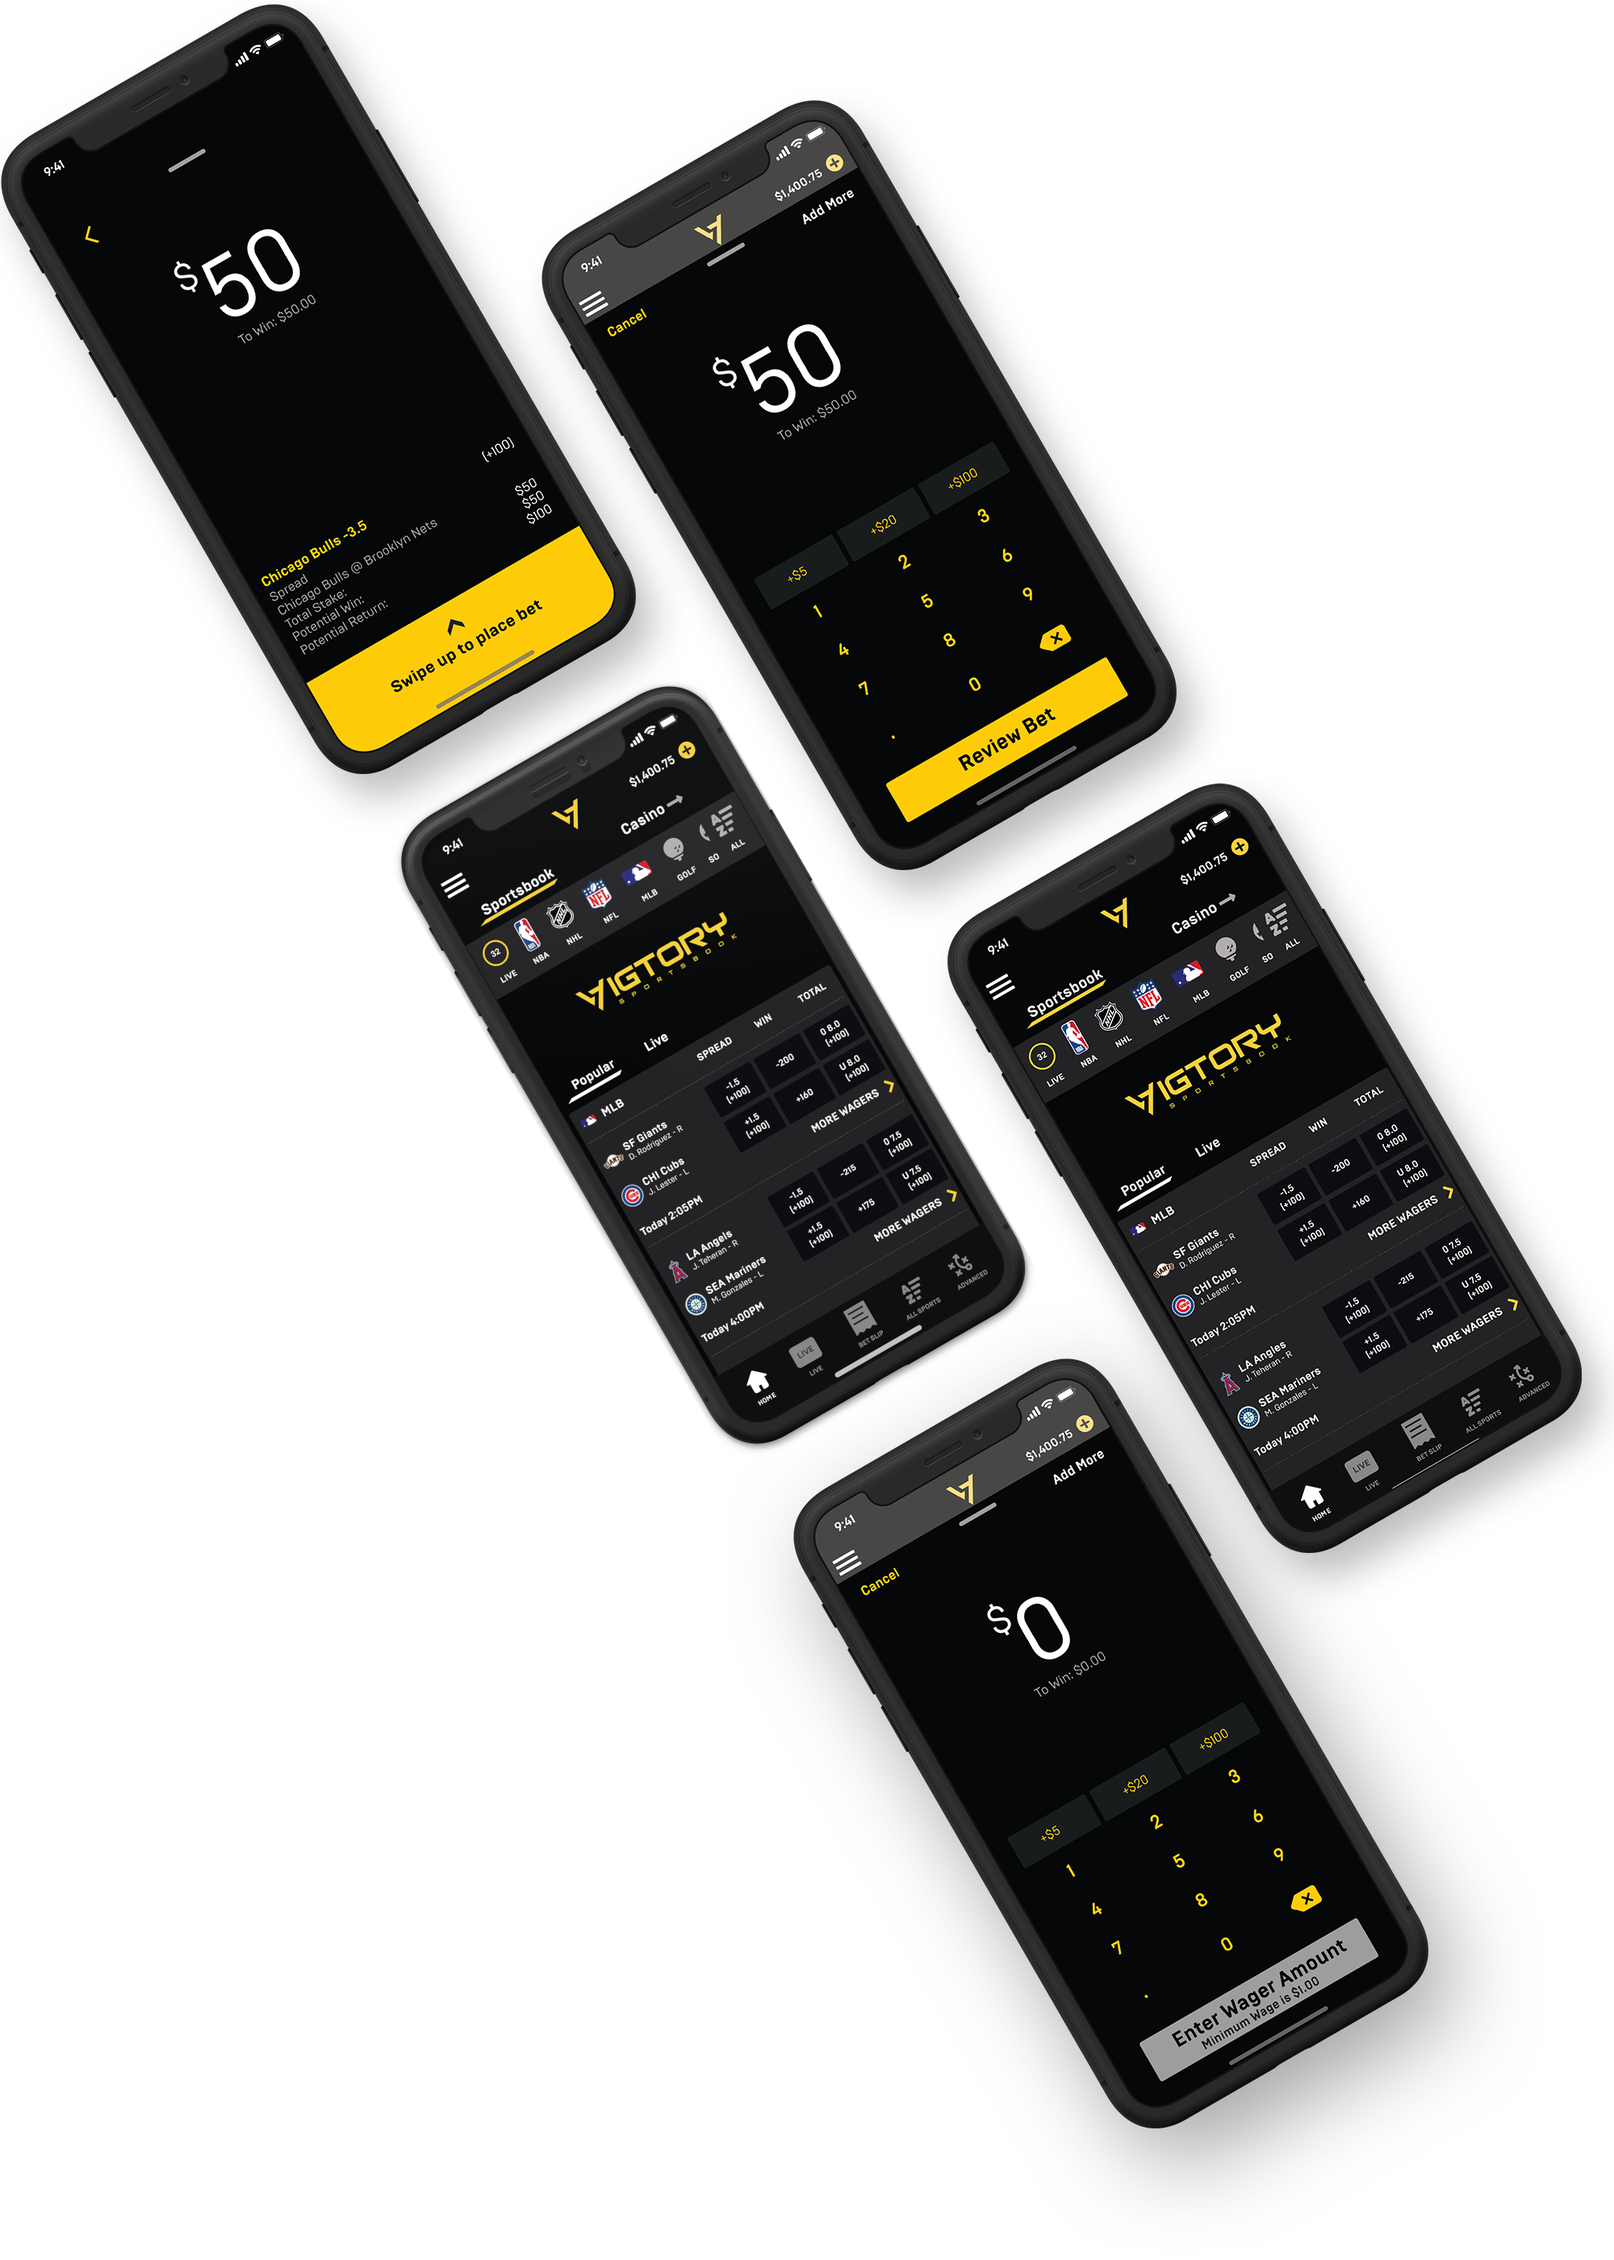
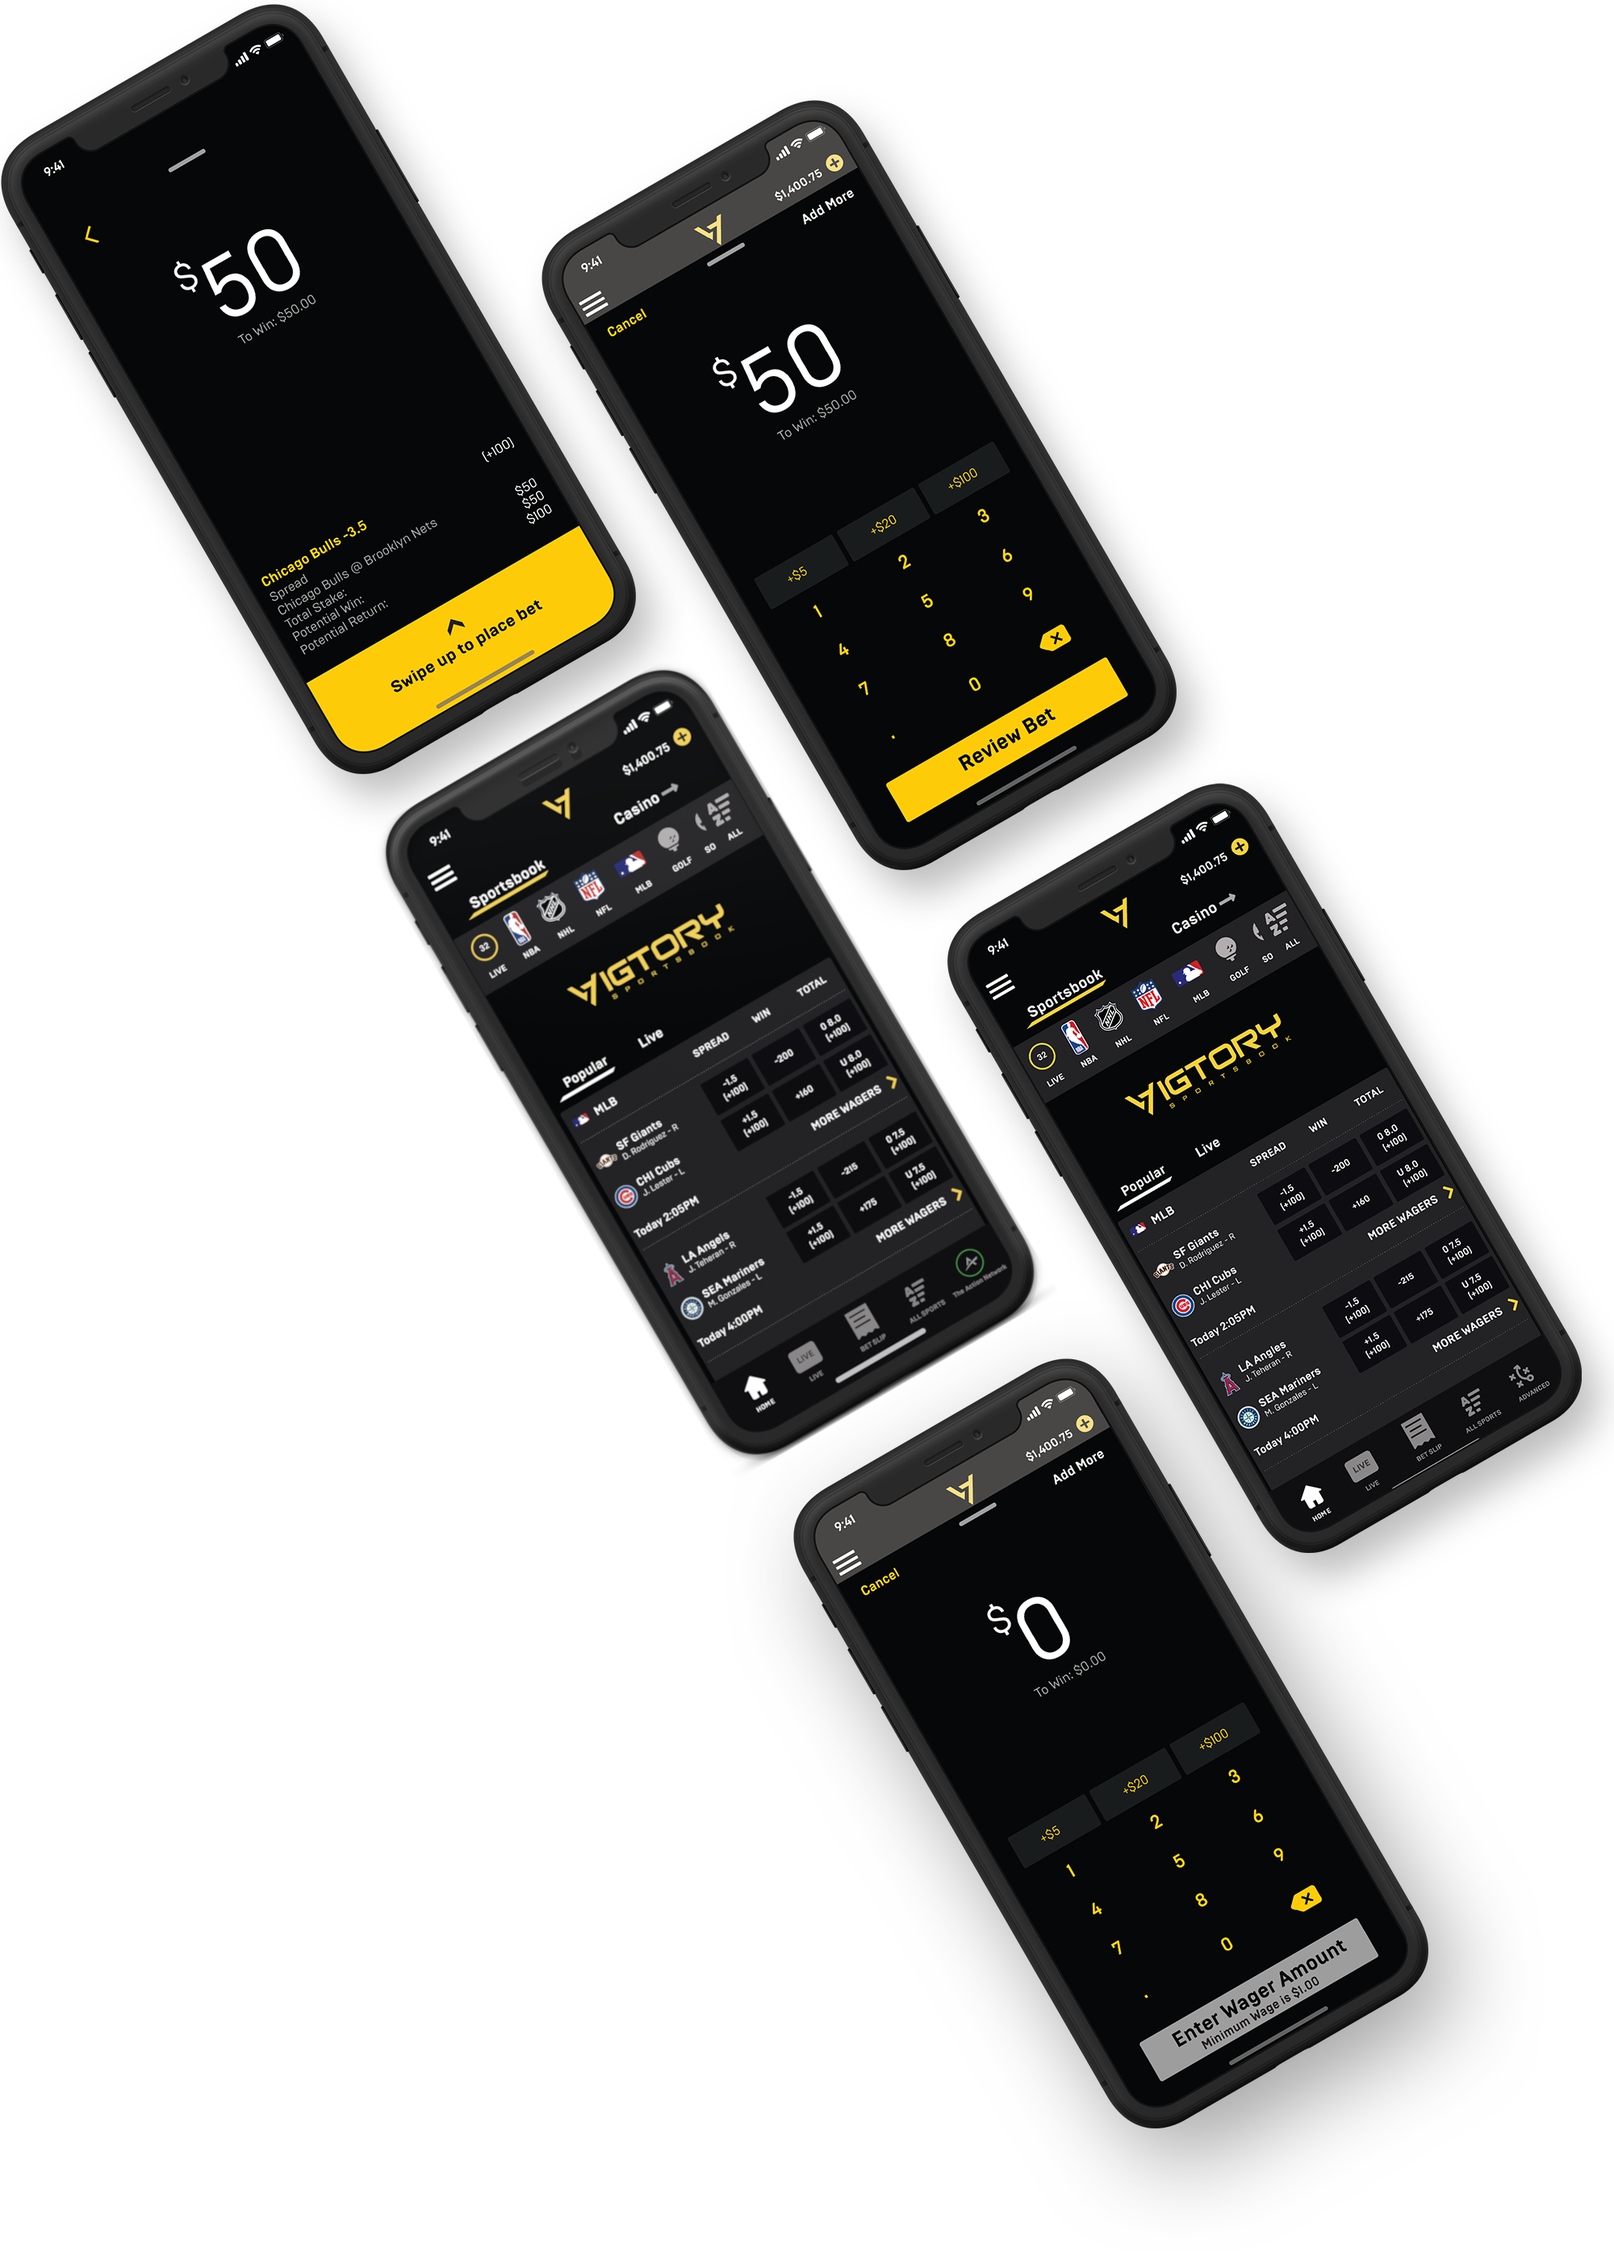
various updates

Changed region(s): [[0.217, 0.2796, 0.651, 0.6525]]

diff --git a/index.html b/index.html
@@ -48,11 +48,11 @@
             &nbsp;
         </div>
     </div>
-    <div class="d-none d-sm-block w-100 h-100" style="position: absolute; overflow: hidden;">
+    <div class="d-none d-sm-block w-100" style="position: absolute; overflow: hidden; z-index: 999; height: 110vh;">
         <div class="d-none d-sm-block" style="position: absolute; left: 56vw; top: 12px; width: 50vw; height: 50vw; border-radius: 25vw; background-color: #FECA00; max-height: 530px; max-width: 530px;"></div>
-        <img src="assets/iphone-collage.png" style="position: absolute; width: 65vw; top: -100px; left: 51vw; max-height: 930px; max-width: 660px;" />
+        <img src="assets/iphone-collage.png" style="position: absolute; width: 65vw; top: -100px; left: 51vw; max-height: 1056px; max-width: 750px;" />
     </div>
-    <div class="d-none d-sm-flex flex-column container" style="overflow: hidden; position: relative; min-height: 550px;">
+    <div class="d-none d-sm-flex flex-column container center-black-v-small" style="overflow: hidden; position: relative; min-height: 550px;">
         <div class="row justify-content-center w-25 mt-4 ml-1">
             <div class="col-11 pb-1">
                 <img class="w-100" src="assets/Vigtory-tm.png" />
@@ -89,7 +89,7 @@
                         <path d="M166.8 61.9c2.4 1 5.1 1.6 7.9 1.6 11.3 0 20.5-9.2 20.5-20.5s-9.2-20.5-20.5-20.5-20.5 9.2-20.5 20.5c0 1.2.1 2.4.3 3.5.2 3.3 1.3 6.2 3 8.9l-35.6 42.9c-2.7-1.3-5.7-2.1-8.9-2.1-4.6 0-8.9 1.6-12.3 4.2L85.8 87c2.8-3.5 4.4-7.9 4.4-12.7 0-11.3-9.2-20.5-20.5-20.5S49.2 63 49.2 74.3c0 3.6.9 6.9 2.5 9.9l-34.2 23.4v-83H10v151h177.4V168H17.5v-51.7l39-26.3c3.6 3 8.2 4.8 13.2 4.8 3.8 0 7.3-1 10.4-2.8l15.5 14c-2 3.2-3.1 6.9-3.1 10.9 0 11.3 9.2 20.5 20.5 20.5s20.5-9.2 20.5-20.5c0-5.5-2.2-10.4-5.7-14.1l35.7-42.3c1.1.4 2.2 1 3.3 1.4zm-97 23.7c-6.3 0-11.4-5.1-11.4-11.4s5.1-11.4 11.4-11.4S81.1 68 81.1 74.2 76 85.6 69.8 85.6zm43.2 42.5c-6.3 0-11.4-5.1-11.4-11.4s5.1-11.4 11.4-11.4 11.4 5.1 11.4 11.4-5.1 11.4-11.4 11.4zM163.4 43c0-6.3 5.1-11.4 11.4-11.4s11.4 5.1 11.4 11.4-5.1 11.4-11.4 11.4-11.4-5.1-11.4-11.4z" fill="#000" data-color="1"></path></svg>
                     </svg>
                 </div>
-                <div class="col-11">
+                <div class="col-10">
                     <h3>Data & Analytics</h3>
                     <p>No other operator provides their bettors data and analytics. We're building backtesting tools, live tracking, and other analytical platforms integrated directly into the book. We are excited to be the first operator to offer their customers a never-before-seen strategy platform.</p>
                 </div>
@@ -214,7 +214,7 @@
             <div class="col-12 col-sm-4 d-flex justify-content-center my-3">
                 <div class="row justify-content-center">
                     <div class="col-7 pb-1">
-                        <img class="w-100" src="assets/Vigtory-tm.png" />
+                        <img class="w-100 h-100" src="assets/Vigtory-tm.png" />
                     </div>
                     <div class="col-12">
                         <small><p class="text-center">Best Price. Best Experience.</p></small>

diff --git a/css/styles.css b/css/styles.css
@@ -71,6 +71,13 @@ a:focus, a:hover, a:active {
     background-size: 175%;
 }
 
+.center-black-v-small {
+    background-image: url('../assets/blackV-01 Top section.png');
+    background-position: center;
+    background-repeat: no-repeat;
+    background-size: 100%;
+}
+
 .yellow-bubble-section {
     left: -10vw;
     width: 120vw;
